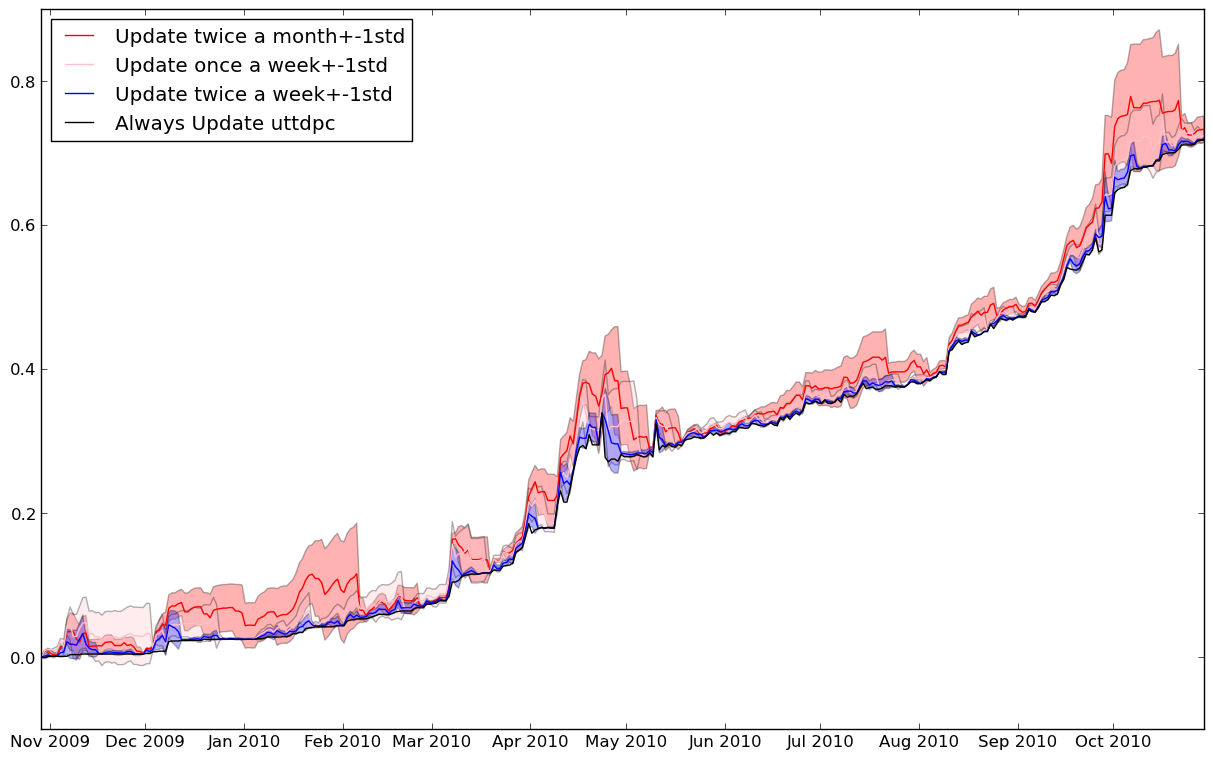
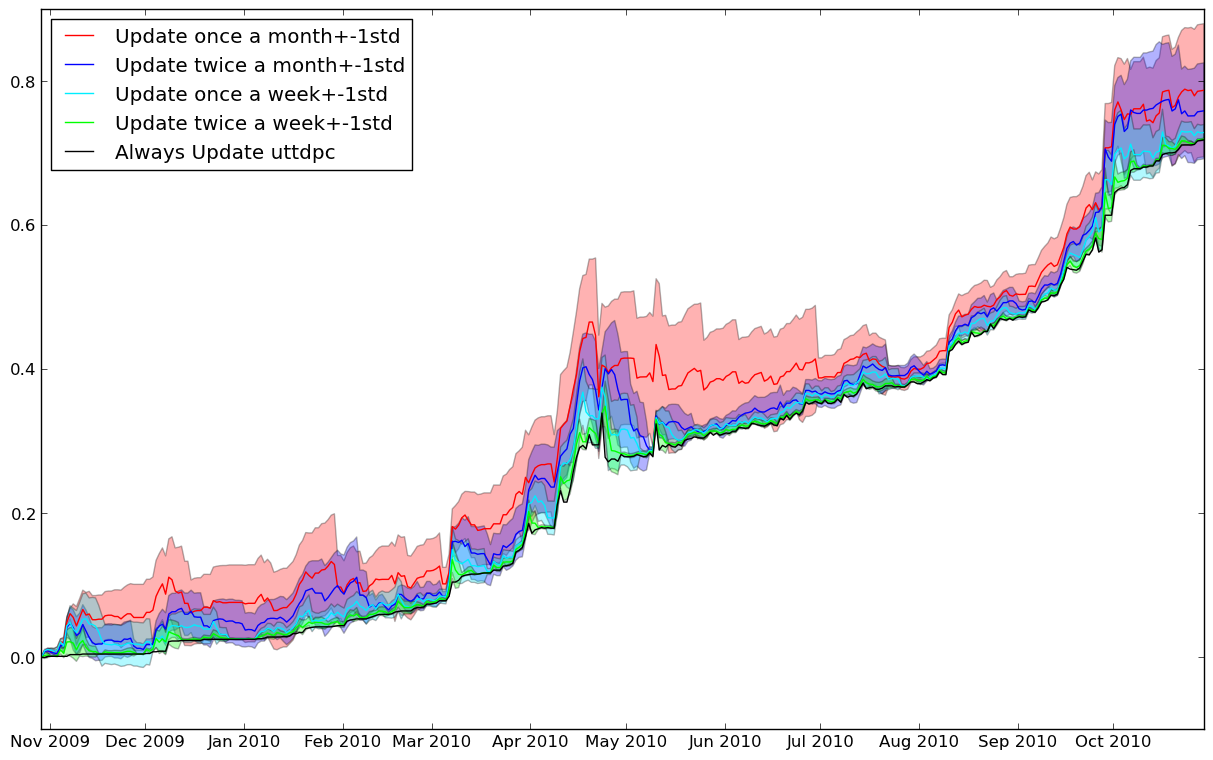
still analysing

Changed region(s): [[0.0305, 0.0303, 1.0, 0.8776], [0.0305, 0.0303, 0.3355, 0.2421]]

diff --git a/UbuntuSimulationAnalysis/aq1b.py b/UbuntuSimulationAnalysis/aq1b.py
@@ -11,16 +11,15 @@ from analysisutils import *
 
 folder = "cache/q1b"
 files = map(lambda x : os.path.join(folder,x),os.listdir(folder))
+p0 = filter(lambda x : os.path.basename(x).startswith("u0.05"),files);
 p1 = filter(lambda x : os.path.basename(x).startswith("u0.1"),files);
 p2 = filter(lambda x : os.path.basename(x).startswith("u0.2"),files);
-
 p4 = filter(lambda x : os.path.basename(x).startswith("u0.4"),files);
-
 
 always = os.path.join(folder,"alwaysupdate.user")
 never = os.path.join(folder,"never.user")
 
-variables = [("Update twice a month",p1,"red"),("Update once a week",p2,"pink"),("Update twice a week",p4,"blue")]
+variables = [("Update once a month",p0,"#FF0000"),("Update twice a month",p1,"#0000FF"),("Update once a week",p2,"#00EEFF"),("Update twice a week",p4,"#00FF00")]
 
 	
 def plotuttdpc():
@@ -37,23 +36,177 @@ def plotuttdpc():
 	for name,pf,c in variables: 
 		ivals = map(lambda x : uttdperc(x),pf)
 		imean,istd,imeanpstd,imeanmstd = multimeanstd(ivals)
+		mdiff = numpy.mean(imean)
+		print "Mean uttdpc",name,mdiff
 		pylab.plot(pallthedays,imean,color=c,label=(name +"+-1std "))
-			        
-	#for i in uinstalls:
-	#	das,iuttdpd = uttdperc(i)
-	#	pylab.plot(das,iuttdpd,color='black')
 
 	pylab.plot(pallthedays,auttdpc,color='black',label="Always Update uttdpc")
 
-	#pylab.plot(pallthedays,nuttdpc,color='r',label="Never Update uttdpc")	
-
 	pylab.legend(loc="upper left")
 
-	print "Last Always update uttdperc", auttdpc[-1]
-	print "Last Never update uttdpperc", nuttdpc[-1]
-
+	
 	saveFigure("q1buttdperc")
 	
 	
+	#The main point to note on the graph is that updating less frequently has the most significant effect when the components are evolving quickly.
+	#In the months before the release the differences in "out of dateness" of the systems is proportional to how infrequently they are updated.
+	#However, around the April release when components are being maintained more aggressivly, infrequently updated systems take significantly more time to adapt.
+	
+	#This is an important link between component evolution, and CSE: \textbf{quickly evolving components demands quickly evolving systems.}
+	#This can be seen in the difference in uptodate distance  between the update everyday user and other users.
+	
+	#Mean difference to alwys updating Update once a month 0.061175078525
+	#Mean difference to alwys updating Update twice a month 0.0320382083387
+	#Mean difference to alwys updating Update once a week 0.0163829009079 
+	#Mean difference to alwys updating Update twice a week 0.00503248569339
+	
+	#This data shows a possible corolation between the uptodateness of a system and 1 over the probability to update.
+	
+	#To test the hypothesis that the uptodate ness of a system is proportional to 1 over the probability to update we did further experiments
+	pylab.figure(2)
+	probs = {}
+	for f in files:
+		if f.endswith("never.user"):
+			#probs[0.0] = [f]
+			continue
+		if f.endswith("alwaysupdate.user"): 
+			probs[1.0] = [f]
+			continue
+		up = float("." + f.split(".")[1])
+		if up not in probs:
+			probs[up] = []
+		probs[up].append(f)
+	
+	xy = []
+	for up in probs.keys():
+		pf = probs[up]
+		ivals = map(lambda x : uttdperc(x),pf)
+		imean,istd,imeanpstd,imeanmstd = multimeanstd(ivals)
+		xy.append((1.0/up,numpy.mean(imean)))
+		print "uttdpc", up, 1.0/up, numpy.mean(imean)
+		#mdiff = numpy.mean(numpy.array(imean)-auttdpc)
+	
+	x,y = zip(*sorted(xy))
+	pylab.plot(x,y)
+	pylab.scatter(x,y)
+	saveFigure("q1bcorrolationuttdpc")
+	
+	#The corrolcation between these two properties shows the dimishing returns on updating frequently.
+	#For example, updating twice a week (with a update probability of 0.4) is on average 0.262902198701 out of date,
+	#where updating twice as much (with an update probability of .8) is on average 0.258912267114 out of date, an insignificant amount.
+	
+
+
+def plotchange():
+	fig = pylab.figure(10)
+	
+	pylab.plot(pallthedays,chtt(always), color="black", label="Always Update Mean change")
+	
+	for name,pf,c in variables: 
+		ivals = map(lambda x : chtt(x),pf)
+		imean,istd,imeanpstd,imeanmstd = multimeanstd(ivals)
+		pylab.fill_between(pallthedays, imeanpstd, imeanmstd, facecolor=c, alpha=0.3)
+	
+	for name,pf,c in variables: 
+		ivals = map(lambda x : chtt(x),pf)
+		imean,istd,imeanpstd,imeanmstd = multimeanstd(ivals)
+		mdiff = numpy.mean(imean)
+		print "Mean change",name,mdiff
+		pylab.plot(pallthedays,imean,color=c,label=(name +"+-1std "))
+	
+	pylab.legend(loc="upper left")
+
+	saveFigure("q1bchange")
+
+	#The main point that can be extracted from this graph is that by updating less frequently less change is required.
+	#This is because a single component could potentially release multiple versions quickly which a user who updates every day would install each one,
+	#where a user who installs once a month may skip over the interim versions and only install the latest version.
+	#This phenonomon is discussed and used later to create a criterion that takes advantage and lower change.
+	
+		
+	pylab.figure(11)
+	probs = {}
+	for f in files:
+		if f.endswith("never.user"):
+			#probs[0.0] = [f]
+			continue
+		if f.endswith("alwaysupdate.user"): 
+			probs[1.0] = [f]
+			continue
+		up = float("." + f.split(".")[1])
+		if up not in probs:
+			probs[up] = []
+		probs[up].append(f)
+	
+	xy = []
+	for up in probs.keys():
+		pf = probs[up]
+		ivals = map(lambda x : chpd(x),pf)
+		imean,istd,imeanpstd,imeanmstd = multimeanstd(ivals)
+		xy.append((1.0/up,numpy.sum(imean)))
+		print "change", up, 1.0/up, numpy.sum(imean)
+		#mdiff = numpy.mean(numpy.array(imean)-auttdpc)
+	
+	x,y = zip(*sorted(xy))
+	pylab.plot(x,y)
+	pylab.scatter(x,y)
+	saveFigure("q1bcorrolationchange")
+	
+	#The inverse corrolation between 1 over the update probability and the total change demonstrates the increasing returns of updating less frequently.
+	#For example, updating twice a week (with a update probability of 0.4) changes on average a total of 1644.6 over a year,
+	#where updating half as much (with an update probability of .2) is changes on average a total of 1627.7 a year.
+	#This means that updating half as much means over a year changes about less than 17 components.
+
+
+
+
+def pseudoSystem():
+
+	#The corrolations discovered when answering this question shows the emergent effects of component evolution on CSE.
+	#We can further study these correlations by creating an example component system consisting of many components where a a different component has a new version released every day.
+	#By looking at users who update the system at different frequencies over 100 days, we present two graphs, update frequency to uttd and change.	
+	
+	
+	l = 100
+	uttdxy = []
+	chxy = []
+	for uf in range(1,20):
+		uttd = range(uf)*(l*2/uf)
+		uttd = uttd[1:l+1]
+		uttdxy.append((uf,numpy.mean(uttd)))
+		
+		sh = [0]*(uf-1) + [uf]
+		sh = sh*l
+		sh = sh[:l]
+		chxy.append((uf,sum(sh)))
+		
+	pylab.figure(20)
+	x,y = zip(*sorted(uttdxy))
+	pylab.plot(x,y)
+	pylab.scatter(x,y)
+	saveFigure("q1bpseudouttd")
+	
+	pylab.figure(21)
+	
+	x,y = zip(*sorted(chxy))
+	pylab.plot(x,numpy.array(y))
+	pylab.scatter(x,numpy.array(y))
+	pylab.ylim([0,l+10])
+	saveFigure("q1bpseudochange")
+	
+	#What we can see by creating this simple example is that the uttd correlation to update frequency is predicted here.
+	#This shows that the system is getting outofdate at a constant rate. 
+	#However, the more interesting point is that the correlation between update frequency and change is not present in this simple example.
+	#This means that another varaible is present when updating a component system.
+	
+	#That variable is the rate at which the same component is updated multiple times.
+	#In the simple example different components are updated regularly. 
+	#However, in reality the same component can be upgraded multiple times, lowering the change necessary when updating.
+	#This effect is further discussed and taken advantage of in later sections.
+	
+pseudoSystem()	
 plotuttdpc()
+
+plotchange()
+
 pylab.show()

diff --git a/UbuntuSimulationAnalysis/repeatedinstalls graph.py b/UbuntuSimulationAnalysis/repeatedinstalls graph.py
@@ -1,0 +1,66 @@
+#!/usr/bin/python
+import os
+from cudfpy import cudfpkg
+start = 1256814000 #one day before first action
+end = 1288410600
+
+initsys = cudfpkg.createProfileChangeRequest("9.10.cudf",nameversiononly=True)
+
+def topnpairs(cudfmap):
+	return set([(n,v) for n in cudfmap.keys() for v in cudfmap[n]])
+	
+	
+def processSolutionsFolder(folder):
+	assert os.path.isdir(folder)
+	pcrl = {}
+	for f in sorted(os.listdir(folder)):
+		t = int(f.split(".")[0])
+		
+		ipcr = cudfpkg.createProfileChangeRequest(os.path.join(folder,f),nameversiononly=True)
+		print folder,f,t
+		pcrl[t] = ipcr
+	return pcrl
+	
+	
+def updatedPackages(ucudfs):
+	
+	cudfs = sorted(map(lambda x: (x[0],x[1].toMap()),ucudfs.items()),key=lambda x: x[0])
+	deltas = zip(cudfs[:-1],cudfs[1:])
+	def updated(((t1,prevcudf),(t2,newcudf))):
+		pnv = topnpairs(prevcudf)
+		nnv = topnpairs(newcudf)
+		
+		newpacks = nnv - pnv
+		updatedpacks = []
+		for p in newpacks:
+			if p[0] in prevcudf.keys():
+				updatedpacks.append(p[0])
+		return updatedpacks
+	
+	return map(updated,deltas) 
+	
+	
+cudfs = processSolutionsFolder("q1a/alwaysupdate.user.sols")
+cudfs[start] = initsys
+
+up = updatedPackages(cudfs)
+
+groovy = {}
+
+for l in range(1,60):
+	groovy[l] = []
+	for i, upacks in enumerate(up[:-l]):
+		for p in upacks:
+			for x in range(1,l+1):
+				if p in up[i+x]:
+					groovy[l].append((i,p))
+
+import pylab
+xy = []
+for l in range(1,60):
+	xy.append((l,len(groovy[l])))
+
+x,y = zip(*sorted(xy))
+pylab.plot(x,y)
+pylab.scatter(x,y)
+pylab.show()

diff --git a/UbuntuSimulationAnalysis/aq1a.py b/UbuntuSimulationAnalysis/aq1a.py
@@ -168,7 +168,7 @@ def plotchange():
 	
 	pylab.legend(loc="upper left")
 	
-	saveFigure("q1change")
+	saveFigure("q1achange")
 	#To analyse this information first the always update change is looked at.
 	#The first point to note is the gradients along the curve, there are two, 
 	#1) the gradients before and after the 10.04 release, 2) one during the release cycle, between March and April of 2010. 
@@ -203,7 +203,7 @@ def plotchange():
 	
 	pylab.legend(loc="upper left")
 	
-	saveFigure("q1newnames")
+	saveFigure("q1anewnames")
 	#This graph shows that the number of installed components is almost identical between the 
 	
 	
@@ -225,7 +225,7 @@ def plotchange():
 	
 	pylab.legend(loc="upper left")
 	
-	saveFigure("q1uptd")
+	saveFigure("q1auptd")
 	#The number of comiponents updated increases over the year, to be about 700 more components updated.
 	#this also shows that number of components necessary to be upgraded is minimal for install users, this shows that to install new components requires minimal change to the components already installed.
 	

diff --git a/UbuntuSimulationAnalysis/usercache.py b/UbuntuSimulationAnalysis/usercache.py
@@ -118,13 +118,13 @@ def getUsers(folder):
 	return filter(lambda x: x.endswith(".user"),map(lambda x : os.path.join(folder,x),os.listdir(folder)))
 	
 users = []
-#users += getUsers("q1c")
-#users += getUsers("q2c")
-#users += getUsers("q3")
-#users += getUsers("q4a")
-#users += getUsers("q1a")
+users += getUsers("q1c")
+users += getUsers("q2c")
+users += getUsers("q3")
+users += getUsers("q4a")
+users += getUsers("q1a")
 users += getUsers("q1b")
-#users += getUsers("q5a")
+users += getUsers("q5a")
 
 for u in sorted(users):
 	print u

diff --git a/UbuntuSimulationAnalysis/utils.py b/UbuntuSimulationAnalysis/utils.py
@@ -136,7 +136,7 @@ def getUptoDateDistance(start,end,cudfs,allcomps):
 	acudfs = getCudfs(start,end,cudfs)
 	k = len(acudfs)
 	for t,icudf in acudfs:
-		print k
+		if k%30 == 0: print k
 		k -= 1
 		spcr = sliceCUDF(t,allcomps)
 		cudf = createFullCUDF(icudf,spcr)
